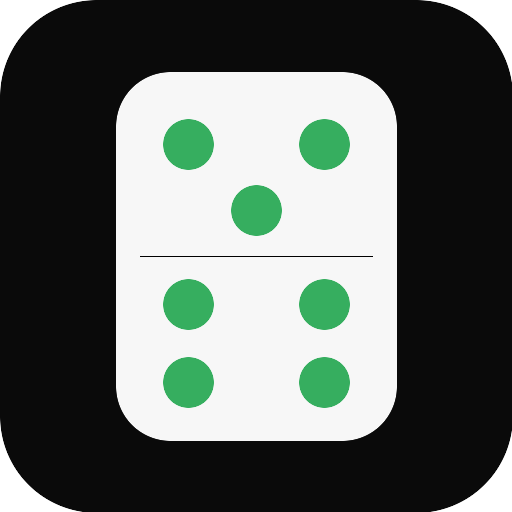
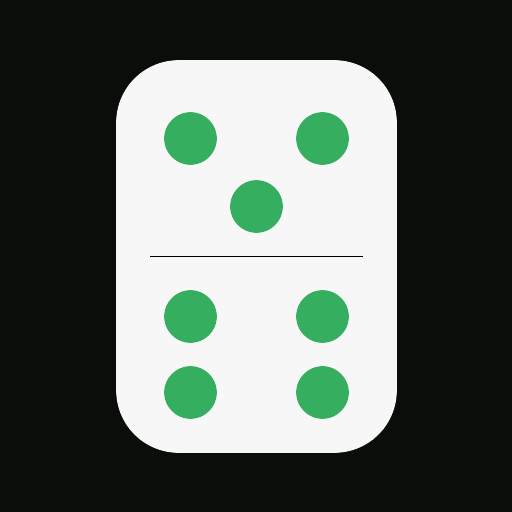
Polish branding and Home Screen support

diff --git a/styles.css b/styles.css
@@ -9,6 +9,7 @@
   --primary-active: oklch(0.57 0.15 145);
   --focus: oklch(0.82 0.13 145);
   --error: oklch(0.68 0.18 28);
+  --line: oklch(0.98 0 0 / 0.1);
   --space-2xs: 0.25rem;
   --space-xs: 0.5rem;
   --space-sm: 0.75rem;
@@ -27,6 +28,11 @@
 
 * {
   box-sizing: border-box;
+}
+
+::selection {
+  background: oklch(0.65 0.15 145 / 0.38);
+  color: var(--ink);
 }
 
 [hidden] {
@@ -92,6 +98,7 @@ button:focus-visible,
 
 .app-shell {
   position: relative;
+  isolation: isolate;
   display: grid;
   grid-template-rows: minmax(0, 1fr) auto;
   width: 100%;
@@ -148,9 +155,10 @@ button:focus-visible,
   display: flex;
   align-items: center;
   justify-content: space-between;
-  min-height: calc(3.75rem + env(safe-area-inset-top));
+  min-height: calc(4rem + env(safe-area-inset-top));
   padding: calc(var(--space-sm) + env(safe-area-inset-top)) var(--space-md) var(--space-sm);
-  background: oklch(0.06 0 0 / 0.86);
+  border-bottom: 1px solid var(--line);
+  background: oklch(0.06 0 0 / 0.9);
 }
 
 .brand-lockup,
@@ -163,22 +171,14 @@ button:focus-visible,
 
 .brand-lockup {
   font-size: 1rem;
-  font-weight: 700;
+  font-weight: 750;
   letter-spacing: -0.015em;
 }
 
 .brand-mark {
-  display: grid;
-  grid-template-columns: repeat(2, 0.25rem);
-  gap: 0.1875rem;
-  width: 0.6875rem;
-}
-
-.brand-mark i {
-  width: 0.25rem;
-  height: 0.25rem;
-  border-radius: 50%;
-  background: var(--primary);
+  display: block;
+  width: 1.75rem;
+  height: 1.75rem;
 }
 
 .privacy-note {
@@ -199,15 +199,22 @@ button:focus-visible,
   stroke-linejoin: round;
 }
 
-.primary-button svg,
-.icon-button svg {
+.primary-button svg {
   fill: currentColor;
   stroke: none;
 }
 
+.icon-button svg {
+  fill: none;
+  stroke: currentColor;
+  stroke-width: 1.8;
+  stroke-linecap: round;
+  stroke-linejoin: round;
+}
+
 .aiming-frame {
   position: absolute;
-  inset: calc(4rem + env(safe-area-inset-top)) var(--space-md) var(--space-lg);
+  inset: calc(4.25rem + env(safe-area-inset-top)) var(--space-md) var(--space-lg);
   z-index: var(--z-overlay);
   pointer-events: none;
   opacity: 0;
@@ -262,11 +269,27 @@ button:focus-visible,
   flex-direction: column;
   align-items: center;
   justify-content: center;
-  gap: var(--space-md);
+  gap: 1.25rem;
   padding: calc(4.5rem + env(safe-area-inset-top)) var(--space-lg) var(--space-xl);
   text-align: center;
   background: var(--bg);
   transition: opacity 180ms ease-out, visibility 180ms;
+}
+
+.gate-mark {
+  display: block;
+  width: 5rem;
+  height: 5rem;
+  filter: drop-shadow(0 0.75rem 1.5rem oklch(0 0 0 / 0.38));
+  animation: mark-enter 420ms cubic-bezier(0.22, 1, 0.36, 1) both;
+}
+
+@keyframes mark-enter {
+  from {
+    clip-path: inset(9% 9% 9% 9% round 0.75rem);
+    opacity: 0.72;
+    transform: translateY(0.375rem) scale(0.96);
+  }
 }
 
 .top-bar {
@@ -292,8 +315,8 @@ button:focus-visible,
 }
 
 .gate-copy h1 {
-  font-size: 1.5rem;
-  line-height: 1.15;
+  font-size: 1.75rem;
+  line-height: 1.1;
   letter-spacing: -0.025em;
   text-wrap: balance;
 }
@@ -324,11 +347,15 @@ button:focus-visible,
   min-width: 12rem;
   padding: var(--space-sm) var(--space-lg);
   background: var(--primary);
-  color: oklch(1 0 0);
+  color: var(--bg);
 }
 
 .primary-button:hover {
-  background: oklch(0.69 0.15 145);
+  background: oklch(0.71 0.15 145);
+}
+
+.primary-button:active {
+  background: var(--primary-active);
 }
 
 .primary-button:active,
@@ -346,7 +373,9 @@ button:focus-visible,
 .text-button {
   min-height: 2.75rem;
   padding: var(--space-sm) var(--space-md);
+  border: 0;
   cursor: pointer;
+  background: transparent;
   color: var(--muted);
   font-size: 0.875rem;
   font-weight: 600;
@@ -354,6 +383,11 @@ button:focus-visible,
   text-decoration: underline;
   text-decoration-color: oklch(0.75 0.01 145 / 0.45);
   text-underline-offset: 0.25rem;
+}
+
+.text-button:hover {
+  color: var(--ink);
+  text-decoration-color: currentColor;
 }
 
 .score-dock {
@@ -368,6 +402,7 @@ button:focus-visible,
   align-items: center;
   gap: var(--space-sm) var(--space-md);
   padding: var(--space-md) var(--space-md) max(var(--space-md), env(safe-area-inset-bottom));
+  border-top: 1px solid var(--line);
   background: var(--surface);
 }
 
@@ -393,7 +428,7 @@ button:focus-visible,
   background: oklch(0.25 0.01 145);
 }
 
-.icon-button[for="photo-input"] {
+.icon-button[data-choose-photo] {
   grid-area: photo;
 }
 
@@ -425,6 +460,8 @@ button:focus-visible,
   color: var(--muted);
   font-size: 0.875rem;
   font-weight: 700;
+  letter-spacing: 0.08em;
+  text-transform: uppercase;
 }
 
 .status-line {
@@ -537,6 +574,11 @@ noscript {
 }
 
 @media (max-height: 42rem) {
+  .gate-mark {
+    width: 4rem;
+    height: 4rem;
+  }
+
   .score-dock {
     gap: var(--space-xs) var(--space-sm);
     padding-top: var(--space-sm);
@@ -586,8 +628,8 @@ noscript {
   .app-shell {
     width: min(100%, 31rem);
     height: min(56rem, calc(100dvh - 3rem));
-    border-radius: 1rem;
-    box-shadow: 0 0.5rem 0.5rem oklch(0 0 0 / 0.35);
+    border-radius: 1.25rem;
+    box-shadow: 0 1.5rem 5rem oklch(0 0 0 / 0.55);
   }
 }
 

diff --git a/index.html b/index.html
@@ -6,9 +6,14 @@
     <meta name="theme-color" content="#0a0a0a" />
     <meta name="color-scheme" content="dark" />
     <meta name="description" content="Point your camera at dominoes and count every visible pip on your device." />
+    <meta name="apple-mobile-web-app-capable" content="yes" />
+    <meta name="apple-mobile-web-app-status-bar-style" content="black-translucent" />
+    <meta name="apple-mobile-web-app-title" content="Pip Count" />
     <link rel="manifest" href="./manifest.webmanifest" />
+    <link rel="icon" href="./favicon.ico" sizes="32x32" />
     <link rel="icon" href="./icons/icon.svg" type="image/svg+xml" />
-    <link rel="apple-touch-icon" href="./icons/apple-touch-icon.png" />
+    <link rel="icon" href="./icons/favicon-32.png" type="image/png" sizes="32x32" />
+    <link rel="apple-touch-icon" sizes="180x180" href="./icons/apple-touch-icon-v2.png" />
     <link rel="stylesheet" href="./styles.css" />
     <title>Pip Count</title>
     <script>
@@ -37,7 +42,7 @@
 
         <header class="top-bar">
           <div class="brand-lockup" aria-label="Pip Count">
-            <span class="brand-mark" aria-hidden="true"><i></i><i></i><i></i><i></i></span>
+            <img class="brand-mark" src="./icons/logo-mark.svg" alt="" width="28" height="28" />
             <span>Pip Count</span>
           </div>
           <span class="privacy-note">
@@ -49,6 +54,7 @@
         <div class="aiming-frame" aria-hidden="true"><i></i><i></i><i></i><i></i></div>
 
         <div class="camera-gate" id="camera-gate">
+          <img class="gate-mark" src="./icons/logo-mark.svg" alt="" width="80" height="80" />
           <div class="gate-copy">
             <h1>Count the pips</h1>
             <p id="gate-message">Lay Double-12 or smaller dominoes face-up with a little space between them.</p>
@@ -57,16 +63,16 @@
             <svg aria-hidden="true" viewBox="0 0 24 24"><path d="M4 8a2 2 0 0 1 2-2h2l1.2-2h5.6L16 6h2a2 2 0 0 1 2 2v10H4V8Zm8 8.5a4 4 0 1 0 0-8 4 4 0 0 0 0 8Z" /></svg>
             Start camera
           </button>
-          <label class="text-button" for="photo-input">Choose a photo instead</label>
+          <button class="text-button" type="button" data-choose-photo>Choose a photo instead</button>
         </div>
       </section>
 
       <section class="score-dock" id="score-controls" aria-labelledby="score-label">
         <div class="secondary-actions">
-          <label class="icon-button" for="photo-input" title="Choose a photo">
+          <button class="icon-button" type="button" title="Choose a photo" data-choose-photo>
             <svg aria-hidden="true" viewBox="0 0 24 24"><path d="M4 5h16v14H4V5Zm3 11 3.5-4 2.5 3 2-2 2 3H7Zm1-6.5a1.5 1.5 0 1 0 0-3 1.5 1.5 0 0 0 0 3Z" /></svg>
             <span class="sr-only">Choose a photo</span>
-          </label>
+          </button>
           <input id="photo-input" type="file" accept="image/*" capture="environment" hidden />
           <button class="icon-button" id="torch-button" type="button" title="Turn flash on" hidden>
             <svg aria-hidden="true" viewBox="0 0 24 24"><path d="m13.2 2-7 11h5.4L10.8 22l7-12h-5.4l.8-8Z" /></svg>

diff --git a/app.js b/app.js
@@ -10,6 +10,7 @@ const elements = {
   gate: document.querySelector("#camera-gate"),
   gateMessage: document.querySelector("#gate-message"),
   startCamera: document.querySelector("#start-camera"),
+  photoTriggers: document.querySelectorAll("[data-choose-photo]"),
   photoInput: document.querySelector("#photo-input"),
   torchButton: document.querySelector("#torch-button"),
   score: document.querySelector("#score"),
@@ -387,6 +388,7 @@ async function toggleTorch() {
 }
 
 elements.startCamera.addEventListener("click", startCamera);
+for (const trigger of elements.photoTriggers) trigger.addEventListener("click", () => elements.photoInput.click());
 elements.photoInput.addEventListener("change", (event) => loadPhoto(event.target.files?.[0]));
 elements.freezeButton.addEventListener("click", freezeScore);
 elements.decrement.addEventListener("click", () => adjustScore(-1));

diff --git a/sw.js b/sw.js
@@ -1,13 +1,18 @@
-const CACHE_NAME = "pip-count-v5";
+const CACHE_NAME = "pip-count-v7";
 const APP_SHELL = [
   "./",
   "./styles.css",
   "./app.js",
   "./vision.js",
   "./manifest.webmanifest",
+  "./favicon.ico",
+  "./icons/logo-mark.svg",
   "./icons/icon.svg",
+  "./icons/favicon-32.png",
+  "./icons/icon-192.png",
   "./icons/icon-512.png",
   "./icons/apple-touch-icon.png",
+  "./icons/apple-touch-icon-v2.png",
   "./vendor/opencv.js",
 ];
 
